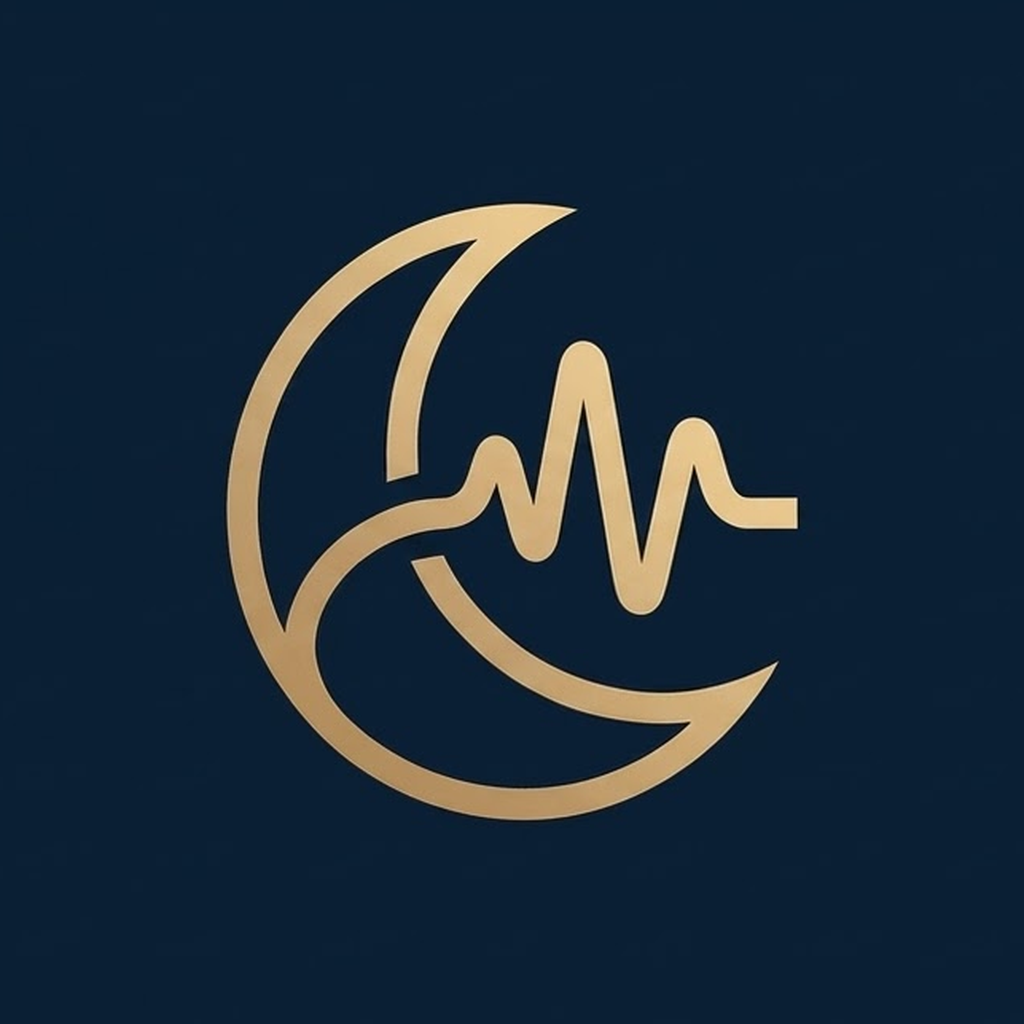
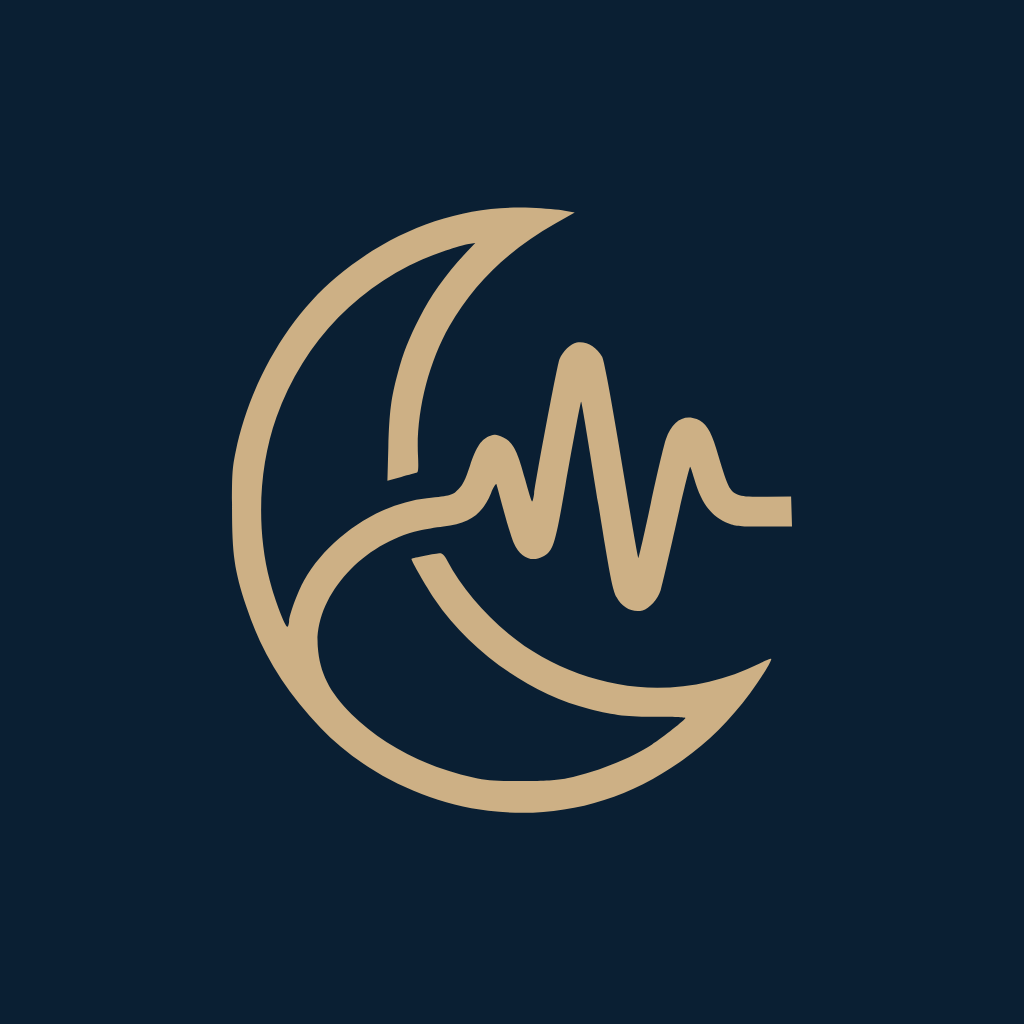
Eigene Mischungen: Häkchen an der eingestellten Mischung und spürbares Feedback beim Antippen; App-Symbol aus der Vektor-Datei
Claude-Session: https://claude.ai/code/session_01RzUXETMaBGEwhuR7F4F7nf

Changed region(s): [[0.2188, 0.1875, 0.7812, 0.8125], [0.4688, 0.4062, 0.5, 0.4375]]

diff --git a/SleepSonar/SoundsView.swift b/SleepSonar/SoundsView.swift
@@ -6,6 +6,7 @@ struct SoundsView: View {
     @ObservedObject private var rec = PassiveNightEngine.shared
     @State private var naming = false
     @State private var mixName = ""
+    @State private var loadedMix: UUID?
     private let timers = [0, 15, 30, 45, 60, 90, 120]
 
     var body: some View {
@@ -59,16 +60,29 @@ struct SoundsView: View {
 
                 Section {
                     ForEach(player.mixes) { mix in
+                        let current = player.volumes == mix.volumes
                         Button {
                             player.load(mix)
+                            loadedMix = mix.id
                         } label: {
-                            VStack(alignment: .leading, spacing: 2) {
-                                Text(mix.name).foregroundStyle(Theme.moon)
-                                Text(SleepSound.allCases.filter { (mix.volumes[$0] ?? 0) > 0.01 }.map(\.name)
-                                        .joined(separator: " + "))
-                                    .font(.caption).foregroundStyle(Theme.mist)
+                            HStack {
+                                VStack(alignment: .leading, spacing: 2) {
+                                    Text(mix.name).foregroundStyle(Theme.moon)
+                                    Text(SleepSound.allCases.filter { (mix.volumes[$0] ?? 0) > 0.01 }.map(\.name)
+                                            .joined(separator: " + "))
+                                        .font(.caption).foregroundStyle(Theme.mist)
+                                }
+                                Spacer()
+                                // eingestellte Mischung sichtbar markieren
+                                if current {
+                                    Image(systemName: "checkmark").foregroundStyle(Theme.accent)
+                                        .transition(.scale.combined(with: .opacity))
+                                }
                             }
+                            .contentShape(Rectangle())
+                            .animation(.snappy, value: current)
                         }
+                        .accessibilityAddTraits(current ? .isSelected : [])
                     }
                     .onDelete(perform: player.deleteMixes)
                     Button(tr("Aktuelle Mischung sichern …")) { mixName = ""; naming = true }
@@ -87,6 +101,7 @@ struct SoundsView: View {
             .navigationTitle(tr("Klänge"))
             .toolbarTitleDisplayMode(.inlineLarge)
             .toolbarBackground(Theme.ink, for: .navigationBar)
+            .sensoryFeedback(.selection, trigger: loadedMix)
             .alert(tr("Mischung sichern"), isPresented: $naming) {
                 TextField(tr("Name"), text: $mixName)
                 Button(tr("Abbrechen"), role: .cancel) {}

diff --git a/scripts/render_icon.js b/scripts/render_icon.js
@@ -1,0 +1,10 @@
+// Rendert assets/icon.svg (Suya-Logo, Vektor) als 1024×1024-PNG für App-Symbol und SideStore.
+const { chromium } = require('playwright');
+const path = require('path');
+(async () => {
+  const b = await chromium.launch();
+  const p = await b.newPage({ viewport: { width: 1024, height: 1024 } });
+  await p.goto('file://' + path.resolve(__dirname, '../assets/icon.svg'));
+  await p.screenshot({ path: path.resolve(__dirname, '../assets/icon.png') });
+  await b.close();
+})();
